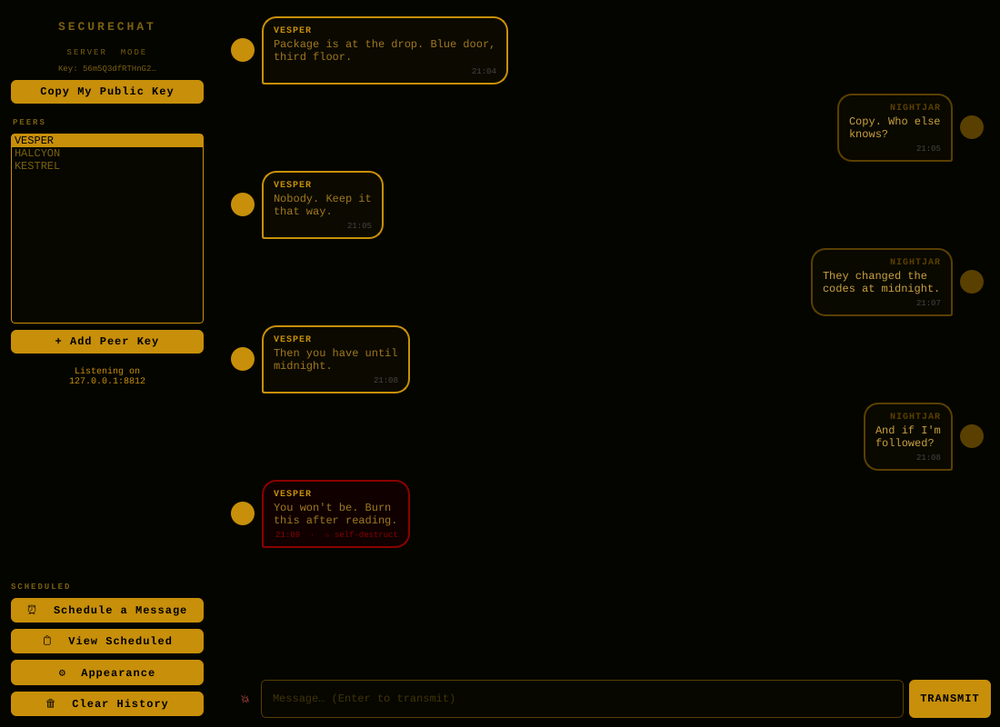
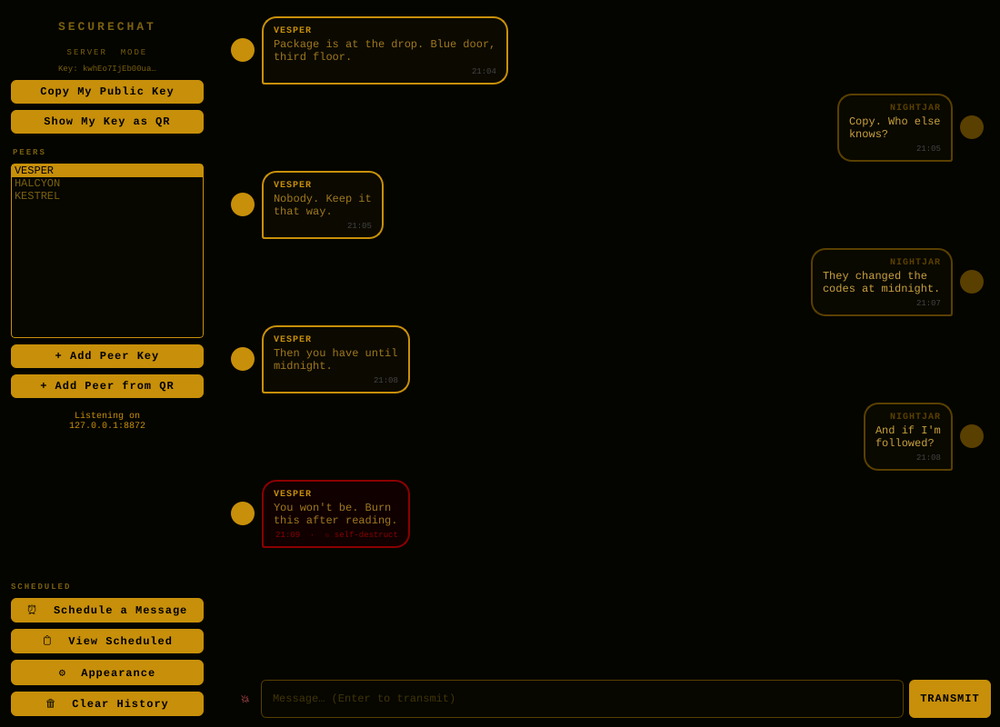
Add QR code key exchange, in the terminal and in the app
--show-key prints your public key as a QR code (black on white, so it
scans in light and dark terminals). Scanning it gives a securechat://
link carrying your name and key, which "+ Add Peer Key" now accepts.
"+ Add Peer from QR" and --add-peer-qr read a photo or screenshot of a
code via OpenCV; --add-peer takes a link or NAME:KEY. Keys are checked
for the right format and length before they're saved.

Claude-Session: https://claude.ai/code/session_018wdzkgQZC4SFHNRxC2x5jv

Changed region(s): [[0.0, 0.4539, 0.217, 0.6052], [0.0, 0.1513, 0.217, 0.2724]]

diff --git a/securechat.py b/securechat.py
@@ -13,6 +13,8 @@ Features:
 
 Run as server: python securechat.py --server
 Run as client: python securechat.py --client --host 192.168.1.x
+Show key as QR:  python securechat.py --show-key
+Add from photo:  python securechat.py --add-peer-qr photo.jpg
 """
 
 import sys, os, json, sqlite3, asyncio, argparse, base64, datetime
@@ -27,6 +29,12 @@ try:
     import websockets
 except ImportError:
     print("ERROR: pip install websockets"); sys.exit(1)
+
+# Optional: QR key exchange. qrcode draws the code; OpenCV reads one from a photo.
+try:
+    import qrcode
+except ImportError:
+    qrcode = None
 
 try:
     from PyQt5.QtWidgets import (
@@ -159,6 +167,95 @@ def load_or_create_keypair():
 
 def pub64(pk):
     return base64.b64encode(bytes(pk.public_key)).decode()
+
+
+# ── QR KEY EXCHANGE ───────────────────────────────────────────────────────────
+# A key travels as  securechat://peer?name=<display name>&key=<base64 public key>
+# Phone cameras read it as text, so it can be scanned, then pasted or AirDropped.
+
+KEY_URI_PREFIX = "securechat://peer?"
+
+def make_key_uri(name, pk):
+    from urllib.parse import urlencode
+    return KEY_URI_PREFIX + urlencode({"name": name or "Anonymous", "key": pub64(pk)})
+
+def parse_key_text(text):
+    """Accept a securechat:// link or a bare base64 key. Returns (name or None, key).
+    Raises ValueError if the key isn't a valid 32-byte X25519 public key."""
+    from urllib.parse import urlparse, parse_qs
+    text = (text or "").strip()
+    name = None
+    if text.startswith("securechat://"):
+        q = parse_qs(urlparse(text).query)
+        name = (q.get("name") or [None])[0]
+        text = (q.get("key") or [""])[0]
+    try:
+        raw = base64.b64decode(text, validate=True)
+    except Exception:
+        raise ValueError("That isn't a SecureChat key.")
+    if len(raw) != 32:
+        raise ValueError("That key is the wrong length for a SecureChat key.")
+    return name, text
+
+def qr_matrix(data):
+    if qrcode is None:
+        raise RuntimeError("QR codes need the qrcode package:  pip install qrcode")
+    q = qrcode.QRCode(border=3, error_correction=qrcode.constants.ERROR_CORRECT_M)
+    q.add_data(data); q.make(fit=True)
+    return q.get_matrix()
+
+def print_key_qr(name, pk):
+    """The terminal moment: a big QR of your key, ready to be photographed."""
+    uri = make_key_uri(name, pk)
+    rows = qr_matrix(uri)
+    print()
+    print("  ┌──────────────────────────────────────────────┐")
+    print("  │  SECURECHAT  ·  PUBLIC KEY  ·  SCAN TO PAIR  │")
+    print("  └──────────────────────────────────────────────┘")
+    print()
+    # Two QR rows per text line using half-block characters, printed black on
+    # white with ANSI colours so it scans in light and dark terminals alike.
+    ink, reset = "\033[30;47m", "\033[0m"
+    for y in range(0, len(rows), 2):
+        top, bot = rows[y], rows[y + 1] if y + 1 < len(rows) else [False] * len(rows[y])
+        line = "".join("█" if (t and b) else "▀" if t else "▄" if b else " " for t, b in zip(top, bot))
+        print("  " + ink + line + reset)
+    print()
+    print(f"  Name : {name}")
+    print(f"  Key  : {pub64(pk)}")
+    print()
+    print("  This key is public. It's safe to show, film or send.")
+    print("  Your private key never leaves this machine.")
+    print()
+
+def decode_qr_image(path):
+    """Read a SecureChat QR from a photo or screenshot."""
+    try:
+        import cv2
+    except ImportError:
+        raise RuntimeError("Reading QR photos needs OpenCV:  pip install opencv-python-headless")
+    img = cv2.imread(str(path))
+    if img is None:
+        raise ValueError(f"Couldn't open {path} as an image.")
+    det = cv2.QRCodeDetector()
+    text, _, _ = det.detectAndDecode(img)
+    if not text:  # phone photos are often large: try again smaller
+        h, w = img.shape[:2]
+        if max(h, w) > 1600:
+            f = 1600 / max(h, w)
+            text, _, _ = det.detectAndDecode(cv2.resize(img, (int(w * f), int(h * f))))
+    if not text:
+        raise ValueError("No QR code found. Try a straighter, sharper photo.")
+    return text
+
+def add_peer_from_text(text, name=None):
+    """Save a peer from a link or bare key. Returns the name used."""
+    found_name, key = parse_key_text(text)
+    name = (name or found_name or "").strip()
+    if not name:
+        raise ValueError("A bare key needs a name:  --add-peer NAME:KEY")
+    peers = load_peers(); peers[name] = key; save_peers(peers)
+    return name
 
 def encrypt(msg, my_key, their_pub64):
     box = nacl.public.Box(my_key, nacl.public.PublicKey(base64.b64decode(their_pub64)))
@@ -659,12 +756,16 @@ class SecureChatWindow(QMainWindow):
 
         copy_btn = QPushButton("Copy My Public Key"); copy_btn.clicked.connect(self._copy_pub)
         sl.addWidget(copy_btn)
+        qr_btn = QPushButton("Show My Key as QR"); qr_btn.clicked.connect(self._show_qr)
+        sl.addWidget(qr_btn)
 
         sl.addWidget(QLabel("PEERS", styleSheet="font-size:9px;font-weight:bold;letter-spacing:2px;margin-top:8px;"))
         self.peers_list = QListWidget(); self.peers_list.itemClicked.connect(self._select_peer)
         sl.addWidget(self.peers_list)
         add_p = QPushButton("+ Add Peer Key"); add_p.clicked.connect(self._add_peer)
         sl.addWidget(add_p)
+        add_qr = QPushButton("+ Add Peer from QR"); add_qr.clicked.connect(self._add_peer_qr)
+        sl.addWidget(add_qr)
 
         self.status_lbl = QLabel("Waiting for connection…")
         self.status_lbl.setAlignment(Qt.AlignCenter); self.status_lbl.setWordWrap(True)
@@ -872,11 +973,53 @@ class SecureChatWindow(QMainWindow):
     # ── PEERS ─────────────────────────────────────────────────────────────────
 
     def _add_peer(self):
-        name, ok = QInputDialog.getText(self, "Add Peer", "Peer name:")
-        if not ok or not name: return
-        key, ok = QInputDialog.getText(self, "Add Peer", f"Paste {name}'s public key:")
-        if not ok or not key: return
-        self.peers[name] = key.strip(); save_peers(self.peers); self._refresh_peers()
+        text, ok = QInputDialog.getText(self, "Add Peer",
+                                        "Paste their key or securechat:// link:")
+        if not ok or not text.strip(): return
+        try:
+            found, key = parse_key_text(text)
+        except ValueError as e:
+            QMessageBox.warning(self, "Add Peer", str(e)); return
+        name, ok = QInputDialog.getText(self, "Add Peer", "Peer name:", text=found or "")
+        if not ok or not name.strip(): return
+        self.peers[name.strip()] = key; save_peers(self.peers); self._refresh_peers()
+
+    def _add_peer_qr(self):
+        path, _ = QFileDialog.getOpenFileName(self, "Photo of their QR code", "",
+                                              "Images (*.png *.jpg *.jpeg *.heic *.bmp *.webp)")
+        if not path: return
+        try:
+            found, key = parse_key_text(decode_qr_image(path))
+        except (ValueError, RuntimeError) as e:
+            QMessageBox.warning(self, "Add Peer from QR", str(e)); return
+        name, ok = QInputDialog.getText(self, "Add Peer", "Peer name:", text=found or "")
+        if not ok or not name.strip(): return
+        self.peers[name.strip()] = key; save_peers(self.peers); self._refresh_peers()
+        self.status_lbl.setText(f"Added {name.strip()} from QR")
+
+    def _show_qr(self):
+        from PyQt5.QtGui import QImage, QPixmap
+        try:
+            rows = qr_matrix(make_key_uri(self.theme.get("username", "Anonymous"), self.pk))
+        except RuntimeError as e:
+            QMessageBox.information(self, "QR", str(e)); return
+        n, scale = len(rows), 10
+        img = QImage(n * scale, n * scale, QImage.Format_RGB32); img.fill(0xFFFFFFFF)
+        for y, row in enumerate(rows):
+            for x, on in enumerate(row):
+                if on:
+                    for dy in range(scale):
+                        for dx in range(scale):
+                            img.setPixel(x * scale + dx, y * scale + dy, 0xFF000000)
+        dlg = QDialog(self); dlg.setWindowTitle("My SecureChat key")
+        lay = QVBoxLayout(dlg)
+        pic = QLabel(); pic.setPixmap(QPixmap.fromImage(img)); pic.setAlignment(Qt.AlignCenter)
+        pic.setStyleSheet("background:#ffffff;padding:12px;border-radius:8px;")
+        lay.addWidget(pic)
+        cap = QLabel("Scan with a phone to pair. This key is public: safe to show, film or send.")
+        cap.setWordWrap(True); cap.setAlignment(Qt.AlignCenter); lay.addWidget(cap)
+        ok = QDialogButtonBox(QDialogButtonBox.Close); ok.rejected.connect(dlg.reject); lay.addWidget(ok)
+        dlg.exec_()
 
     def _refresh_peers(self):
         self.peers_list.clear()
@@ -1039,7 +1182,30 @@ def main():
     parser.add_argument("--port",   type=int, default=DEFAULT_PORT)
     parser.add_argument("--theme",  default=None,
                         help=f"Preset theme: {', '.join(THEMES.keys())}")
+    parser.add_argument("--show-key", action="store_true",
+                        help="Print your public key as a QR code in the terminal, then exit")
+    parser.add_argument("--add-peer", metavar="LINK_OR_NAME:KEY",
+                        help="Add a peer from a securechat:// link or NAME:KEY, then exit")
+    parser.add_argument("--add-peer-qr", metavar="PHOTO",
+                        help="Add a peer from a photo or screenshot of their QR code, then exit")
     args = parser.parse_args()
+
+    # Terminal-only key exchange: no window needed.
+    if args.show_key or args.add_peer or args.add_peer_qr:
+        pk = load_or_create_keypair()
+        try:
+            if args.show_key:
+                print_key_qr(load_theme().get("username", "Anonymous"), pk)
+            if args.add_peer:
+                text, name = args.add_peer, None
+                if not text.startswith("securechat://") and ":" in text:
+                    name, text = text.split(":", 1)
+                print(f"  ✓ Added peer: {add_peer_from_text(text, name)}")
+            if args.add_peer_qr:
+                print(f"  ✓ Added peer from QR: {add_peer_from_text(decode_qr_image(args.add_peer_qr))}")
+        except (ValueError, RuntimeError) as e:
+            print(f"  ✗ {e}"); sys.exit(1)
+        sys.exit(0)
 
     app = QApplication(sys.argv)
     app.setApplicationName("SecureChat")

diff --git a/README.md b/README.md
@@ -102,9 +102,35 @@ No arguments — the app asks you on launch.
 
 ## Exchange Keys
 
+**The quick way: copy and paste**
+
 1. Click **"Copy My Public Key"** — send to your chat partner (it's public, not secret)
 2. They click **"+ Add Peer Key"** and paste yours in
 3. Done — all messages now encrypted end-to-end
+
+**The cinematic way: scan a QR code**
+
+Your public key can be shown as a QR code, in the terminal or in the app. Point a phone at it and the keys change hands in a second, which looks every bit as good on camera as it sounds.
+
+<p align="center"><img src="docs/terminal-qr.png" alt="A terminal showing a large black-and-white QR code under the heading SECURECHAT, PUBLIC KEY, SCAN TO PAIR" width="480"></p>
+
+```bash
+python securechat.py --show-key
+```
+
+That prints your key as a big QR code, black on white so it scans in light and dark terminals alike. Then your partner can do any of these:
+
+| They have… | They do… |
+|---|---|
+| A phone | Scan it with the camera. It reads a `securechat://` link; send it to their computer and paste it into **"+ Add Peer Key"**. The name fills itself in. |
+| A photo or screenshot of it | Click **"+ Add Peer from QR"** and pick the image, or run `python securechat.py --add-peer-qr photo.jpg` |
+| The link as text | `python securechat.py --add-peer "securechat://peer?name=…&key=…"` |
+
+In the app, **"Show My Key as QR"** puts the same code on screen.
+
+<p align="center"><img src="docs/app-qr.png" alt="The SecureChat window showing a QR code of the user's public key" width="320"></p>
+
+The QR holds only your **public** key and display name, so it's safe to show, film or post. Your private key never leaves your machine. Reading QR codes from photos needs OpenCV (`pip install opencv-python-headless`); everything else works without it.
 
 ---
 
